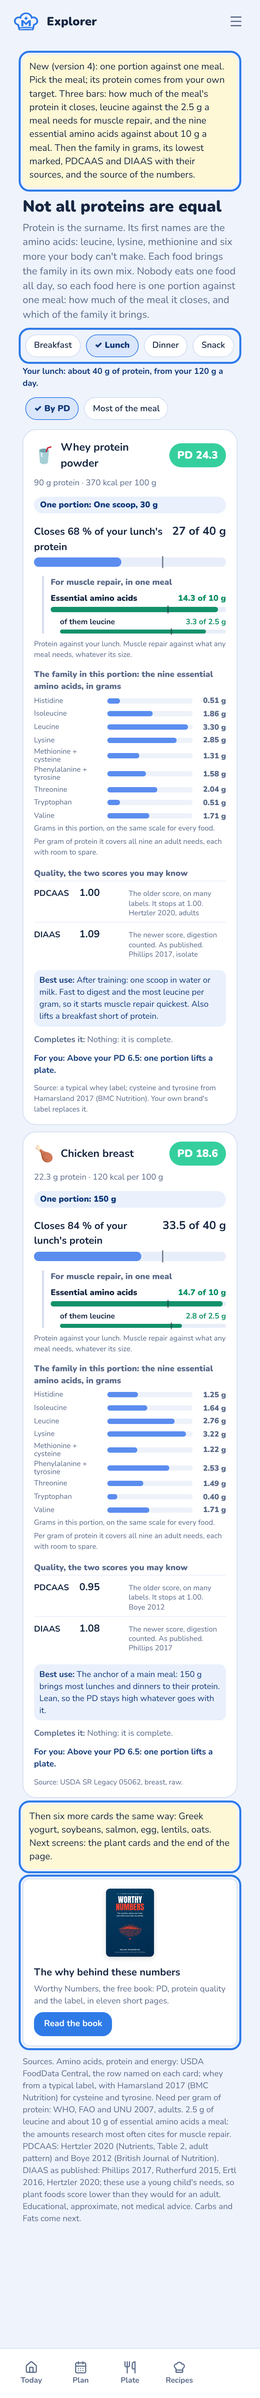
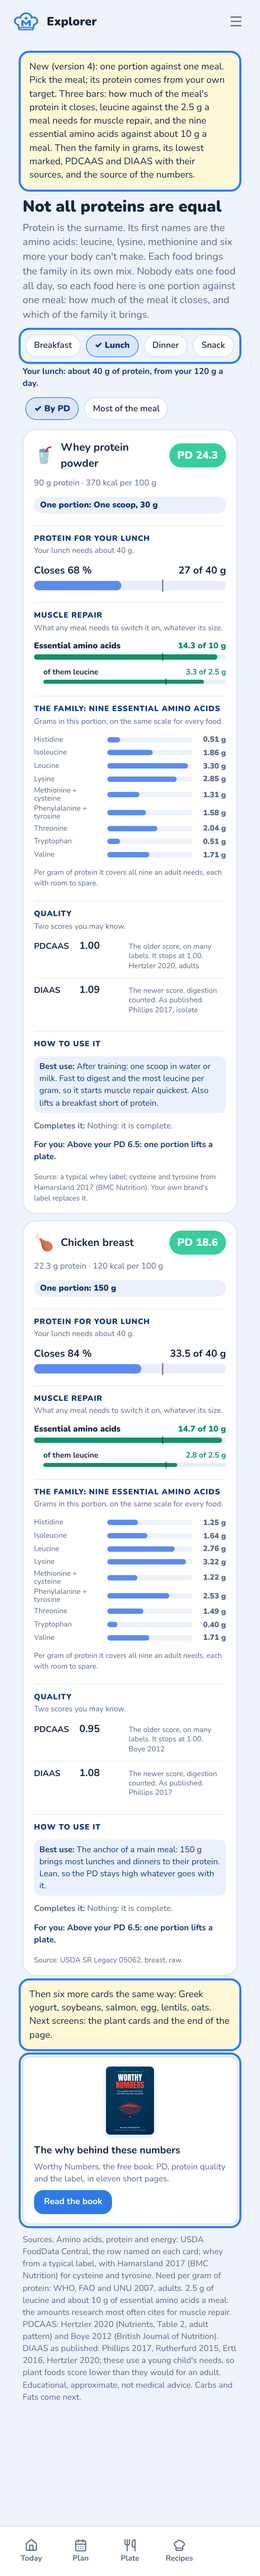
Board DT151 version 7: each card in five sections, a heading and then its graph
Claude-Session: https://claude.ai/code/session_01BtJPGKTfK5KfbXuNDmfhQP

diff --git a/design/boards/genDT151.py b/design/boards/genDT151.py
@@ -86,13 +86,14 @@ W = SX + 3 * (SW + GAP) - GAP + 70
 B = Board(); y = 30
 cy = storyCard(B, y, "DT151", "Explorer: not all proteins are equal (the MVP for the pitch, version 4: one portion against one meal)", [
   ("Coach Milan, 29 October 09:41 to 10:10", "The Explorer becomes part of Chef Mealan, built from scratch, the design as design only; a link in the Menu below Foods, to show new beta testers. Add the whole spectrum of essential amino acids and their levels, and when and how to use each food best. Check the data: everything was almost 200 %. Maybe grams are better."),
+  ("Coach Milan, 11:43", "Better. Still not clear what each block is about. Headings, then the graph below. Make it visually clear what is what."),
   ("Coach Milan, 11:37", "PDCAAS and DIAAS are again in boxes, two per row: one below another. On top, closes the day, one amino acid and total essential amino acids look equal: it needs a visual hierarchy, what belongs to what."),
   ("Coach Milan, 11:27 and 11:28", "Where are the other metrics? And the family: protein is the surname, but the first names are the amino acids, not whey or chicken. The same for fats: saturated, monounsaturated. Add the source, where the data were taken from."),
   ("Coach Milan, 11:23", "The nine as a 3 by 3 matrix is not the best design. One below another, or rising bars, so we see the levels. Numbers are also OK."),
   ("Coach Milan, 10:55 and 11:02", "Against my day it is wrong: one scoop of whey looks like almost the whole day. Against one meal: the projected meal portion, and every food against that, to show how one food can close the meal. No one eats the same food across the day. Use the page to promote Worthy Numbers, and bring back what people know: one or two other metrics, DIAAS."),
   ("What was wrong in version 3", "The day's need was WHO's minimum, set at 0.66 g of protein per kg for an inactive adult. Your target is about twice that, so one scoop looked like most of a day."),
   ("Now, checked in 0.2.131", "No Explorer. What makes one protein food different from another lives only in Chef Mealan's lines on a plate and in PD."),
-  ("The story", "Menu: Explorer, below Foods. One page, Not all proteins are equal: protein is the surname, its first names are the amino acids (leucine, lysine, methionine and six more the body can't make), and each food brings the family in its own mix. Eight protein foods. At the top, the meal: Breakfast, Lunch, Dinner, Snack, the next meal picked; its protein from your own day (for 120 g a day and three meals, a lunch is about 40 g; a snack half a meal). Each card: PD in the app's colours, per 100 g; one normal portion; first and biggest, Closes N % of your lunch's protein (27 of 40 g for a scoop of whey), with the thickest bar; under it, indented with a line on its left, For muscle repair, in one meal: Essential amino acids against about 10 g, and under that, smaller and indented again, of them leucine against 2.5 g, because leucine is one of the nine. Green when the portion alone covers it. Then The family in this portion: the nine in grams, one below another, each a bar on the same scale for every food (0 to 3.5 g), so the levels compare across cards; when one only just covers the need per gram, it is marked amber, its lowest (lentils: methionine and cysteine; oats: lysine), and that is what a partner tops up. Then Quality, the two scores people know, one below another, each a row with its value, one line and its source: PDCAAS, the older score on many labels, stops at 1.00 (adult pattern where published); DIAAS, the newer one, digestion counted, as published. Salmon has neither in our sources yet, and the card says so. Then Best use, what completes it, one line against your PD target, and Source: the food table row the numbers come from. Two chips sort: By PD, Most of the meal. At the end: The why behind these numbers, Worthy Numbers, the free book, with Read the book; visits from here count as their own source, Explorer, in Metrics. One line names the sources and says what DIAAS as published means."),
+  ("The story", "Menu: Explorer, below Foods. One page, Not all proteins are equal: protein is the surname, its first names are the amino acids (leucine, lysine, methionine and six more the body can't make), and each food brings the family in its own mix. Eight protein foods. At the top, the meal: Breakfast, Lunch, Dinner, Snack, the next meal picked; its protein from your own day (for 120 g a day and three meals, a lunch is about 40 g; a snack half a meal). Each card: PD in the app's colours, per 100 g; one normal portion; then five sections, each a heading in capitals over a thin line, a short line under it, then its graph: PROTEIN FOR YOUR LUNCH (your lunch needs about 40 g; Closes 77 %, 30.6 of 40 g, the thickest bar); MUSCLE REPAIR (what any meal needs to switch it on: Essential amino acids against about 10 g, and indented, smaller, of them leucine against 2.5 g); THE FAMILY: NINE ESSENTIAL AMINO ACIDS (grams, one below another); QUALITY (PDCAAS and DIAAS); HOW TO USE IT (Best use, Completes it, For you). Green when the portion alone covers it. Then The family in this portion: the nine in grams, one below another, each a bar on the same scale for every food (0 to 3.5 g), so the levels compare across cards; when one only just covers the need per gram, it is marked amber, its lowest (lentils: methionine and cysteine; oats: lysine), and that is what a partner tops up. Then Quality, the two scores people know, one below another, each a row with its value, one line and its source: PDCAAS, the older score on many labels, stops at 1.00 (adult pattern where published); DIAAS, the newer one, digestion counted, as published. Salmon has neither in our sources yet, and the card says so. Then Best use, what completes it, one line against your PD target, and Source: the food table row the numbers come from. Two chips sort: By PD, Most of the meal. At the end: The why behind these numbers, Worthy Numbers, the free book, with Read the book; visits from here count as their own source, Explorer, in Metrics. One line names the sources and says what DIAAS as published means."),
   ("Not in it", "3D molecules, the other families, links from the Plate and Foods, the design's Coach, Goal or profiles. A public version for people not signed in."),
   ("The numbers, checked", "Amino acids per 100 g from USDA FoodData Central, cysteine and tyrosine added; fixed against the design's data.js: soybeans 18.2 g protein, not 16.6; oats lysine 0.64 g, not 0.53; chicken and Greek yogurt to the USDA rows. Whey has no USDA amino acid row: a published whey analysis, a brand's label in the build. Need per gram of protein: WHO, FAO and UNU 2007, adults; for an adult all eight cover it. 2.5 g of leucine and about 10 g of essential amino acids a meal: the amounts research most often cites for muscle repair. PDCAAS: Hertzler 2020 (Nutrients 12:3704, Table 2, adult pattern: whey, milk, soy 1.00, lentils 0.80, oats 0.62) and Boye 2012 (egg 1.00, chicken 0.95). DIAAS as published: Phillips 2017 (whey isolate 1.09, chicken 1.08, whole milk 1.14, egg 1.13), Ertl 2016 (soybeans 1.00), Rutherfurd 2015 (oats 0.54), Hertzler 2020 (lentils 0.75); these use a young child's needs, so plant foods score lower than for an adult; the page says so. Boye, Phillips, Rutherfurd and Ertl were read through a summary table; in the build each figure is checked against the paper itself. The page footer names every source."),
 ])
